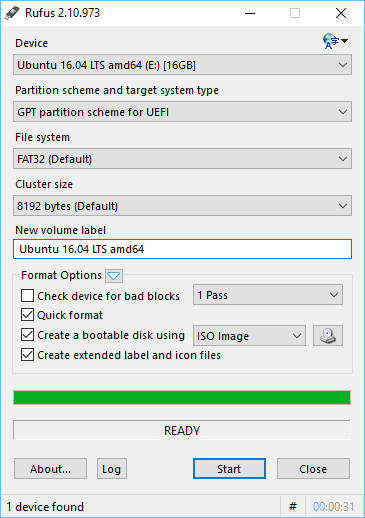
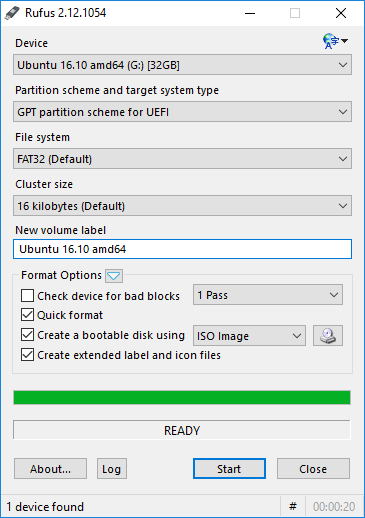
update for 2.12 release

diff --git a/public_html/index.php b/public_html/index.php
@@ -1,13 +1,13 @@
 <!DOCTYPE html>
 
 <?
-$latest_version = "2.11";
+$latest_version = "2.12";
 $previous_version = "";
-$latest_date = "2016.09.08";
+$latest_date = "2017.01.27";
 $previous_date = "";
 $bugfix = false;
-$exe_size = 916;
-$src_size = 2.3;
+$exe_size = 928;
+$src_size = 2.4;
 $langs = array(
   'en_US' => array('en', 'English (International)'),
   'ar_SA' => array('ar', 'Arabic (العربية)'),
@@ -284,6 +284,7 @@ case "he":
 			<td>한국어</td><td><?=$comma;?>&nbsp;</td>
 			<td>ไทย</td><td><?=$comma;?>&nbsp;</td>
 		</tr></table><table dir="<?= $dir;?>" cellspacing="0" cellpadding="0" border="0"><tr>
+			<td>עברית</td><td><?=$comma;?>&nbsp;</td>
 			<td>العربية</td><td><?=$comma;?>&nbsp;</td>
 			<td>فارسی</td><td>.</td>
 		</tr></table></p>
@@ -315,14 +316,14 @@ case "he":
 		<h2><?= /* You are encouraged to append the translation for "(in English)" after "Changelog" as it is only available in English */ _("Changelog");?></h2>
 		<ul dir="<?= $dir;?>">
 			<li><?= $full_version;?><ul>
-				<li><span dir="ltr">Do not download BIOS related files unless BIOS boot is selected</span></li>
-				<li><span dir="ltr">Improve support for Arch Linux derivatives</span></li>
-				<li><span dir="ltr">Add a cheat mode to disable drive indexing on format (<div class="kbd">Alt</div>-<div class="kbd">Q</div>)</span></li>
-				<li><span dir="ltr">Fix handling of 'Super Floppy Disk' formatted drives</span></li>
-				<li><span dir="ltr">Fix handling of misleading short write reports, for drives larger than 1 TB</span></li>
-				<li><span dir="ltr">Fix an issue that enabled FAT32 file system selection on some Windows images</span></li>
-				<li><span dir="ltr">Fix broken UI font for XP users</span></li>
-				<li><span dir="ltr">Fix sanitizing of exFAT labels</span></li>
+				<li><span dir="ltr">Add Hebrew translation, courtesy of <b>NSBuilder</b> and <b>פלוני אלמוני</b></span></li>
+				<li><span dir="ltr">Add a cheat mode (<div class="kbd">Alt</div>-<div class="kbd">O</div>) to create an ISO from the first optical media found</span></li>
+				<li><span dir="ltr">Enable target system selection for Windows To Go</span></li>
+				<li><span dir="ltr">Enable NTFS selection for Syslinux 6.x (EXPERIMENTAL)</span></li>
+				<li><span dir="ltr">Fix an issue that allowed BIOS target selection with pure UEFI images</span></li>
+				<li><span dir="ltr">Fix license display for RTL languages</span></li>
+				<li><span dir="ltr">Update Grub4DOS and FreeDOS to latest</span></li>
+				<li><span dir="ltr">Additional fixes and improvements</span></li>
                         </ul></li>
 <!--			<br />
 			<li><?= $prev_version;?><ul>
